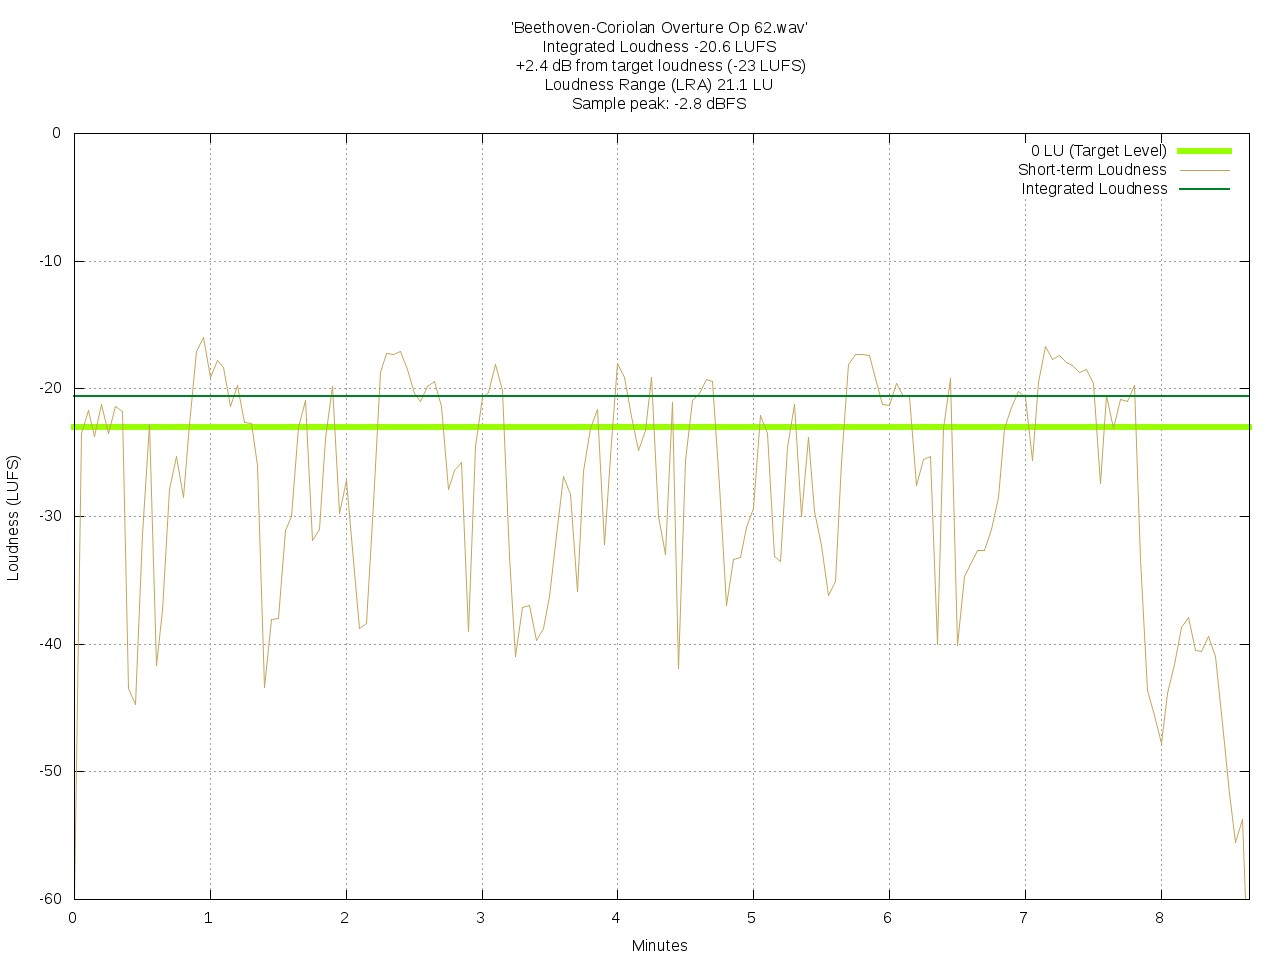
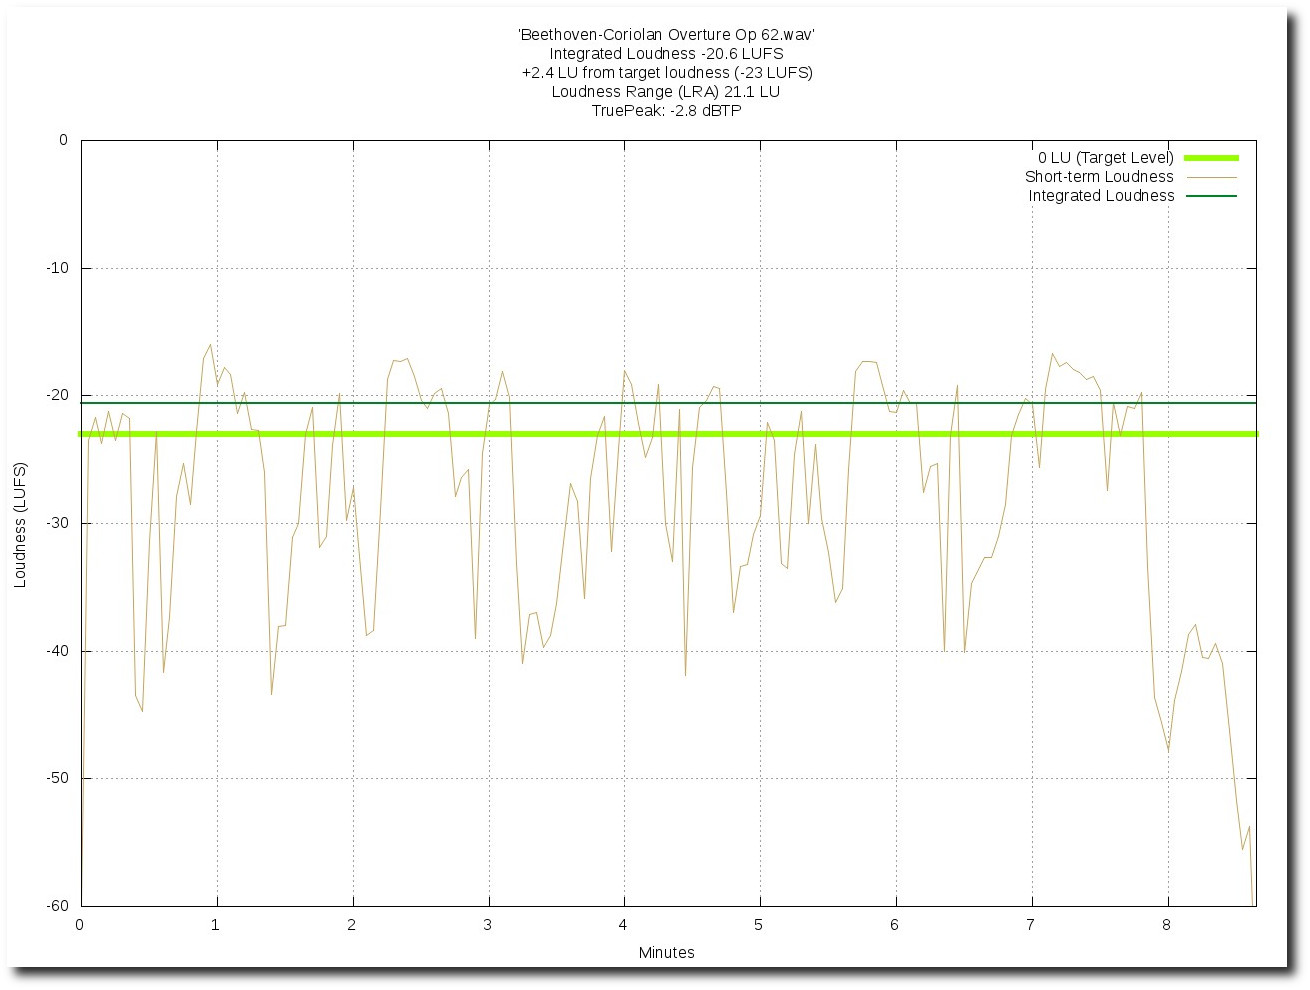
Documentation -------------- - Made some corrections. - Added sections about TruePeak metering and what Linux distributions will be supported in the FAQ. - Changed the wording "EBU R128 standard" to "EBU R128 recommendation". - Made a change to the raid section: it is better to use the UUID to ident

diff --git a/Documentation/FreeLCS_FAQ.html b/Documentation/FreeLCS_FAQ.html
@@ -1,8 +1,8 @@
 <!DOCTYPE html>
 <html dir="ltr" lang="en">
   <head>
-    <title>FreeLCS FAQ</title>
     <meta content="text/html; charset=UTF-8" http-equiv="content-type">
+    <title>FreeLCS FAQ</title>
     <meta content="Mikael Hartzell" name="author">
     <meta content="FreeLCS FAQ" name="description">
     <meta content="FreeLCS FAQ" name="keywords">
@@ -30,6 +30,9 @@
     <br>
     <a href="#What%20happens%20to%20the%20files%20when%20they%20are%20processed%20?">What
       happens to the files when they are processed ?</a><br>
+    <br>
+    <a href="#Is%20TruePeak%20measurement%20supported%20?">Is TruePeak
+      measurement supported ?</a><br>
     <br>
     <a href="#Is%20peak%20limiting%20used%20when%20adjusting%20volume%20up%20?"></a><a
       href="#Is%20peak%20limiting%20used%20when%20loudness%20correction%20adjusts%20volume%20up%20?">Is
@@ -62,7 +65,8 @@
     <a href="#How%20can%20I%20test%20multichannel%20behaviour%20of%20my%20loudness%20meter%20?">How
       can I test multichannel behaviour of my loudness meter ?</a><br>
     <br>
-    <br>
+    <a href="#What%20Linux%20distributions%20are%20supported%20?">What Linux
+      distributions are supported ?</a><br>
     <br>
     <br>
     <br>
@@ -70,11 +74,11 @@
     <h2><a id="What is FreeLCS  ?">What is FreeLCS&nbsp; ?</a></h2>
     <ul>
       <li>FreeLCS is a tool to automatically adjust loudness of files according
-        to the EBU R128 standard.<br>
+        to the EBU R128 recommendation.<br>
       </li>
-      <li>The R128 standard is mainly designed for professional broadcasters to
-        help eliminate loudness jumps between broadcasted programs.</li>
-      <li>Files adjusted according to the standard will have the same loudness.</li>
+      <li>EBU R128 is designed for professional broadcasters to help eliminate
+        loudness jumps between broadcasted programs.</li>
+      <li>Files adjusted according to R128 will at the same loudness level.</li>
       <li>FreeLCS is a Linux server where users can drop in files through the
         network for loudness correction.</li>
       <li>FreeLCS corrects the loudness of each file dropped in. It also
@@ -83,9 +87,7 @@
       <li>FreeLCS is open source and free software. You don't have to pay
         anything to use it :)<br>
       </li>
-      <li>FreeLCS site is here:
-        <meta http-equiv="content-type" content="text/html; charset=utf-8">
-        <a href="http://freelcs.sourceforge.net/">http://freelcs.sourceforge.net/</a></li>
+      <li>FreeLCS site is here: <a href="http://freelcs.sourceforge.net/">http://freelcs.sourceforge.net/</a></li>
     </ul>
     <br>
     <h2> <a id="What programs are used to process audio files ?">What programs
@@ -172,7 +174,15 @@
       </li>
       <li>Then a new loudness adjusted file is created with sox.</li>
       <li>The resulting corrected file loudness will be at -23.0 LUFS.</li>
+      <li>All files will be automatically deleted after a delay defined during
+        FreeLCS installation, it is by default 8 hours.</li>
     </ul>
+    <p><br>
+    </p>
+    <h2><a id="Is TruePeak measurement supported ?">Is TruePeak measurement
+        supported ?</a></h2>
+    <p>Yes :) When you install the software you can choose which method of peak
+      measurement is used: sample peak or TruePeak.</p>
     <p><br>
     </p>
     <h2><a id="Is peak limiting used when loudness correction adjusts volume up ?">Is
@@ -212,14 +222,15 @@
       <li>5.0 = L, R, C, LS, RS.</li>
       <li>5.1 = L, R, C, LFE, LS, RS.</li>
     </ul>
-    Ebu R128 standard (or to be more precise ITU 1770 that R128 refers to) does
-    not support any specific channel order, it only defines how the loudness
-    calculation of: <strong>Front</strong>, <strong>Surround</strong> and <strong>LFE</strong>
-    channels differs from each other. Surround channels are weighted differently
-    from front channels and LFE channel is always discarded and not taken into
-    account in loudness calculation. This means that for example in the case of
-    3.0 any channel order is supported since all of the channels L, R, C are
-    front channels and weighted equally in loudness calculation.<br>
+    Ebu R128 recommendation (or to be more precise ITU 1770 that R128 refers to)
+    does not support any specific channel order, it only defines how the
+    loudness calculation of: <strong>Front</strong>, <strong>Surround</strong>
+    and <strong>LFE</strong> channels differs from each other. Surround
+    channels are weighted differently from front channels and LFE channel is
+    always discarded and not taken into account in loudness calculation. This
+    means that for example in the case of 3.0 any channel order is supported
+    since all of the channels L, R, C are front channels and weighted equally in
+    loudness calculation.<br>
     <p>All channels of one mix must be in the same file. If your 5.1 mix
       consists of 6 files, then you must combine them before dropping the mix
       into loudness correction.</p>
@@ -271,9 +282,9 @@
         size of a separate channel would also go over the 4 GB limit then
         FreeLCS saves all channels of the file in a single flac file. Flac -
         format supports very large files.</li>
-      <li>There are new revisions of the wav format (BWF, RF64) that can store
-        files larger than 4 GB, but I have not tested these formats. BWF and
-        RF64 are not yet very widely supported.<br>
+      <li>There are new revisions of the wav format (RF64, W64) that can store
+        files larger than 4 GB, but I have not tested these formats.&nbsp; RF64
+        and W64 are not yet very widely supported.<br>
       </li>
     </ul>
     <br>
@@ -302,24 +313,36 @@
       <li>If your audio tools don't support flac then you can use Audacity to
         manipulate files in this format. Audacity is a free simple multitrack
         audio tool and it supports Mac, Linux and windows.</li>
-      <li>Audacity site is here:
-        <meta http-equiv="content-type" content="text/html; charset=utf-8">
-        <a href="http://audacity.sourceforge.net/?lang=en">http://audacity.sourceforge.net/?lang=en</a></li>
+      <li>Audacity site is here: <a href="http://audacity.sourceforge.net/?lang=en">http://audacity.sourceforge.net/?lang=en</a></li>
     </ul>
     <p><br>
     </p>
     <h2><a id="How can I test multichannel behaviour of my loudness meter ?">How
         can I test multichannel behavior of my loudness meter ?</a></h2>
     <ul>
-      <li>You can download multichannel test files here:
-        <meta http-equiv="content-type" content="text/html; charset=utf-8">
-        <a href="http://sourceforge.net/projects/freelcs/files/">http://sourceforge.net/projects/freelcs/files/</a></li>
+      <li>You can download multichannel test files here: <a href="http://sourceforge.net/projects/freelcs/files/">http://sourceforge.net/projects/freelcs/files/</a></li>
       <li>The zip file comes with a text document with expected integrated
         loudness results for all files.<br>
       </li>
       <li>Zip name is '<strong>EBU_R128_Test_Files_For_Channels_Counts_From_1_to_6.zip</strong>'<br>
       </li>
     </ul>
+    <br>
+    <h2><a id="What Linux distributions are supported ?">What Linux
+        distributions are supported ?</a></h2>
+    <p>The plan is to support all Ubuntu <strong>LTS</strong> releases (LTS
+      stands for <strong>L</strong>ong <strong>T</strong>erm <strong>S</strong>upport).
+      The current one is Ubuntu 12.04 LTS that was released on April 2012.
+      Ubuntu 12.04 LTS will receive security updates for 5 years meaning until
+      April 2017.</p>
+    <p>Canonical releases a new Ubuntu LTS version every 2 years. If you install
+      FreeLCS on Ubuntu 12.04 then you will need to upgrade the software not
+      sooner than 2017. The supported version of Ubuntu at that time will be
+      16.04 LTS.</p>
+    <p>Other Debian based Linux releases and non LTS Ubuntu releases will
+      probably work fine but I will not be testing my software on them.</p>
+    <p><br>
+    </p>
     <p><br>
     </p>
   </body>

diff --git a/Documentation/FreeLCS_User_Manual.html b/Documentation/FreeLCS_User_Manual.html
@@ -1,8 +1,8 @@
 <!DOCTYPE html>
 <html dir="ltr" lang="en">
   <head>
-    <title>FreeLCS User Manual</title>
     <meta content="text/html; charset=UTF-8" http-equiv="content-type">
+    <title>FreeLCS User Manual</title>
     <meta content="Mikael Hartzell" name="author">
   </head>
   <body>
@@ -62,13 +62,14 @@
     FreeLCS stands for <strong>Free Loudness Correction Server</strong>. The
     software lets you easily set up a server that shares one of it's folders to
     the network where users can drop audio files to be loudness corrected
-    according to the EBU R128 loudness standard. The server also creates a
+    according to the EBU R128 loudness recommendation. The server also creates a
     loudness history graphics file which gives visual feedback of the internal
     loudness variations in a file.<br>
     <br>
-    The software is very fast even on modest hardware giving 20 times faster
-    than realtime processing (stereo files) on a server with one Intel Core 2
-    Duo processor, 2 GB Ram, 3 internal Sata disks in software RAID 0. <br>
+    The software is very fast even on modest hardware giving 15 times faster
+    than realtime processing (16 bit stereo files, TruePeak measurement turned
+    on) on a server with one Intel Core 2 Duo processor, 2 GB Ram, 3 internal
+    Sata disks in software RAID 0. <br>
     <br>
     FreeLCS uses other open source programs to get the job done (Linux,
     libebur128, gnuplot, FFmpeg, sox, mediainfo).<br>
@@ -424,9 +425,9 @@
       <li>The "<strong>Toggle</strong>" button can be used to force
         reinstallation of all programs. You might need this if for example
         libebur128 has just released an updated version which implements latest
-        changes in EBU R128 standard and you want this version right away. The
-        Toggle - button changes the state of all programs to "Not Installed" and
-        clicking it again changes the state back.<br>
+        changes in EBU R128 recommendation and you want this version right away.
+        The Toggle - button changes the state of all programs to "Not Installed"
+        and clicking it again changes the state back.<br>
       </li>
       <li>The installation takes a couple of minutes and the window freezes
         while the installer launches external programs to do the actual
@@ -610,7 +611,7 @@
       <li>The dark green horizontal line shows the integrated loudness of your
         file. It averages the loudness across the length of your whole file into
         a single number. This is the loudness of the file and it must be at -23
-        LUFS to be at the target level according to the EBU R128 standard.</li>
+        LUFS to be at the target level according to the EBU R128 recommendation.</li>
       <li>All files will be loudness corrected to have integrated loudness of
         -23 LUFS.<br>
       </li>
@@ -1014,19 +1015,32 @@
     </blockquote>
     <ul>
       <li>Next make a directory for mounting the raid:<strong> mkdir&nbsp;
-          /mountpoint/raid-disk</strong>&nbsp;&nbsp;&nbsp; and make it readable
-        and writable for everyone:<strong> chmod -R 777 &nbsp;</strong><strong>
+          -p&nbsp; /mountpoint/raid-disk</strong>&nbsp;&nbsp;&nbsp; and make it
+        readable and writable for everyone:<strong> chmod -R 777 &nbsp;</strong><strong>
           /mountpoint</strong></li>
+      <li>Get the <strong>universally unique identifier</strong> (UUID) for the
+        raid disk with command: <strong>blkid /dev/md0</strong> &nbsp;&nbsp;
+        &nbsp; &nbsp; the command will show output like below:<strong></strong></li>
+    </ul>
+    <p style="margin-left: 80px;"><strong>/dev/</strong><strong>md0</strong><strong>:
+        UUID="229f0670-c8c2-4145-b2f4-b1100d9cb918" TYPE="jfs"</strong></p>
+    <ul>
       <li>Add the device to your <strong>/etc/fstab</strong> so that it gets
-        automatically mounted next time the computer starts up. Add the
-        following line in <strong> /etc/fstab</strong>: <br>
+        automatically mounted next time the computer starts up. It is important
+        to use the <strong>UUID</strong> instead of the device name to identify
+        your raid disk in fstab. When Ubuntu kernel gets updated then your raid
+        device number may change after a reboot and stop the disk from mounting.
+        The UUID of a device will never change and it can be used to identify
+        the disk instead of its device name. </li>
+      <li>Add the following line in <strong> /etc/fstab </strong>(change the
+        UUID to match your disk): <br>
       </li>
     </ul>
     <blockquote>
       <blockquote>
-        <p><strong>/dev/md0 &nbsp;&nbsp; /mountpoint/raid-disk &nbsp;&nbsp;
-            &nbsp;&nbsp;&nbsp; auto&nbsp;&nbsp;&nbsp; defaults&nbsp;&nbsp;&nbsp;
-            0 0</strong></p>
+        <p><strong>UUID=229f0670-c8c2-4145-b2f4-b1100d9cb918&nbsp;&nbsp;&nbsp;
+            /mountpoint/raid-disk &nbsp;&nbsp; &nbsp;&nbsp;&nbsp;
+            auto&nbsp;&nbsp;&nbsp; defaults&nbsp;&nbsp;&nbsp; 0 0</strong></p>
       </blockquote>
     </blockquote>
     <ul>
@@ -1034,9 +1048,6 @@
         then make the directory structure on the raid-device readable and
         writable for everyone: <strong>chmod -R 777 &nbsp;</strong><strong>
           /mountpoint</strong></li>
-      <li>In case of trouble this command tells about active raid-devices and
-        disks that belong to them (check that the name of the active raid
-        matches the name you used on the /etc/fstab): <strong>cat /proc/mdstat</strong></li>
     </ul>
     <br>
     <h2> <a id="Notes on loudness correction usage">Notes on loudness
@@ -1064,9 +1075,9 @@
         after loudness correction. Correction only adjusts the 'main level' of a
         file. If integrated loudness of a file is -19 LUFS, loudness correction
         will make all parts of the file 4 dBs quieter and relative loudness
-        variations inside the file will remain the same. This is how EBU R128
-        standard is designed to work, you can still have loud and soft parts in
-        your mix, but it is your responsibility to use them wisely :)<br>
+        variations inside the file will remain the same. This is how EBU R128 is
+        designed to work, you can still have loud and soft parts in your mix,
+        but it is your responsibility to use them wisely :)<br>
       </li>
       <li>FFmpeg seems to support MXF - files also, but processing MXF might be
         problematic. Inside an MXF - file audio channels of a mix might be
@@ -1273,9 +1284,7 @@
           here to see how a program can be manually run in the Terminal</a>.<br>
       </li>
     </ul>
-    Report bugs here (requires creating an free account):
-    <meta http-equiv="content-type" content="text/html; charset=utf-8">
-    <a href="https://sourceforge.net/p/freelcs/tickets/">https://sourceforge.net/p/freelcs/tickets/</a><br>
+    Report bugs here (requires creating an free account): <a href="https://sourceforge.net/p/freelcs/tickets/">https://sourceforge.net/p/freelcs/tickets/</a><br>
     When you have logged in navigate to the link above and click the "<strong>Create
       Ticket</strong>" - button on the left. When you create a ticket, the
     developer gets the bugreport in email.<br>
@@ -1373,9 +1382,7 @@
     <br>
     <h2><a id="FreeLCS development">FreeLCS development</a></h2>
     <br>
-    FreeLCS development happens on Github (
-    <meta http-equiv="content-type" content="text/html; charset=utf-8">
-    <a href="https://github.com/mhartzel/freelcs">https://github.com/mhartzel/freelcs</a>).
+    FreeLCS development happens on Github ( <a href="https://github.com/mhartzel/freelcs">https://github.com/mhartzel/freelcs</a>).
     All new versions of software are uploaded there before official release.
     Unreleased versions are untested so it is recommended that normal users do
     not use these versions on their production servers. The reason for this is

diff --git a/Documentation/index.html b/Documentation/index.html
@@ -11,14 +11,14 @@
     FreeLCS stands for <strong>Free Loudness Correction Server</strong>. The
     software lets you easily set up a server that shares one of it's folders to
     the network where users can drop audio files to be loudness corrected
-    according to the EBU R128 loudness standard. The server also creates a
+    according to the EBU R128 loudness recommendation. The server also creates a
     loudness history graphics file which gives visual feedback of the internal
     loudness variations in a file.<br>
     <br>
     The software is very fast even on modest hardware giving 15 times faster
-    than realtime processing (stereo files, TruePeak measurement turned on) on a
-    server with one Intel Core 2 Duo processor, 2 GB Ram, 3 internal Sata disks
-    in software RAID 0. <br>
+    than realtime processing (16 bit stereo files, TruePeak measurement turned
+    on) on a server with one Intel Core 2 Duo processor, 2 GB Ram, 3 internal
+    Sata disks in software RAID 0. <br>
     <br>
     FreeLCS uses other open source programs to get the job done (Linux,
     libebur128, gnuplot, FFmpeg, sox, mediainfo).<br>
